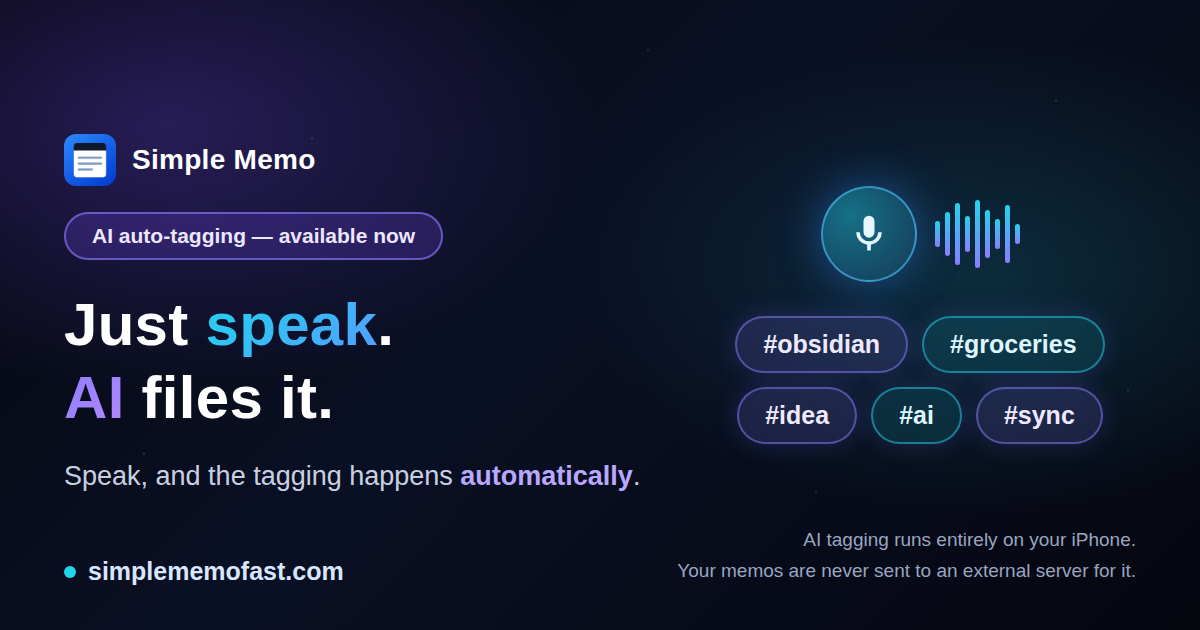
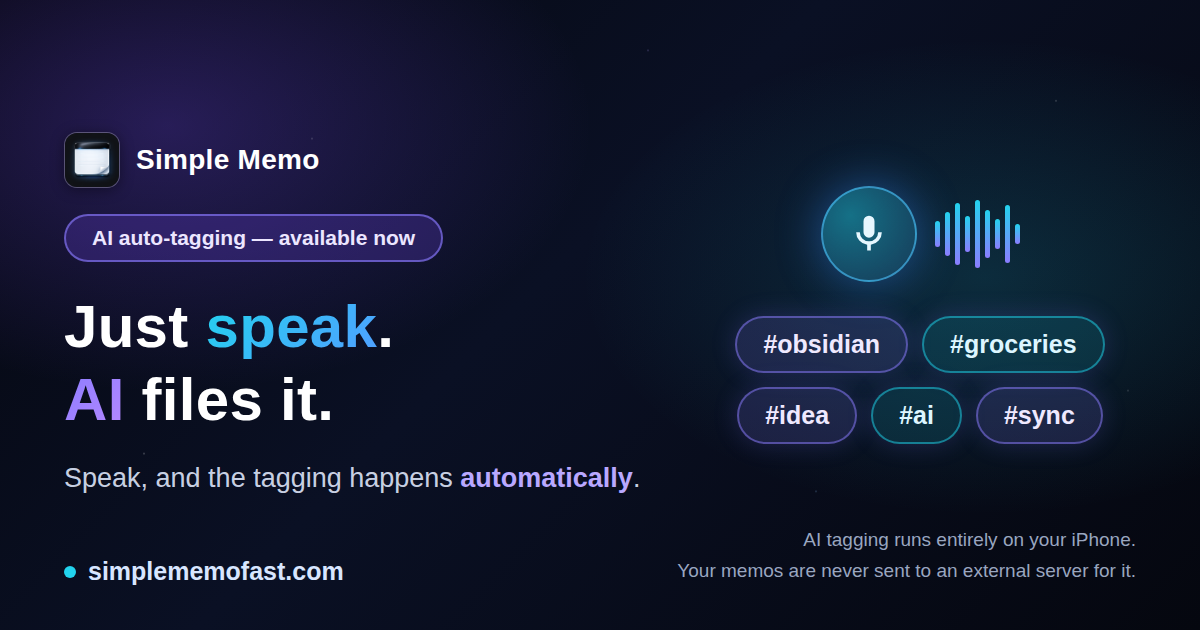
fix(og): OGカードのアプリアイコンを現行デザインに追従 — #408の差し戻しを反映 (#410)
#409のOGカードは、フラット版アイコンが入っていた時点（#407）で生成した
ため、その後の#408でアイコンが従来デザインへ差し戻された結果、カード内の
アイコンだけが取り残されていた。現行アイコンで4枚とも再生成する。

あわせて、現行アイコンは暗色主体でカードの暗い背景に沈むため、アイコンの
背後に淡いプレート（半透明の下地＋境界線＋影）を敷いた。アイコンの絵柄が
今後また変わっても視認性が保たれる。

再生成: og/index.png, og/index-en.png, og/ai-tags.png, og/ai-tags-en.png

検証: seo-check.js 0 errors（警告176件で変化なし）、
sync_constants.js --check OK、4枚の描画結果を目視確認。

Claude-Session: https://claude.ai/code/session_01UNMheV3yfYumPsuVqraNWK

diff --git a/scripts/generate-og-feature.js b/scripts/generate-og-feature.js
@@ -117,7 +117,9 @@ body::before {
 .wrap { position: relative; height: 100%; display: flex; align-items: center; padding: 54px 64px; }
 .left { width: 640px; flex: none; }
 .brand { display: flex; align-items: center; gap: 16px; margin-bottom: 26px; }
-.brand img { width: 52px; height: 52px; border-radius: 12px; display: block; }
+/* The app icon is itself dark-on-dark, so it needs a light plate to read
+   against the card gradient. Keeps working if the icon art changes again. */
+.brand img { width: 56px; height: 56px; border-radius: 13px; display: block; background: rgba(255,255,255,.1); border: 1px solid rgba(255,255,255,.18); box-shadow: 0 2px 14px rgba(0,0,0,.4); }
 .brand span { font-size: 28px; font-weight: 700; letter-spacing: .01em; }
 .badge {
   display: inline-block; font-size: 21px; font-weight: 700; color: #ece6ff;
